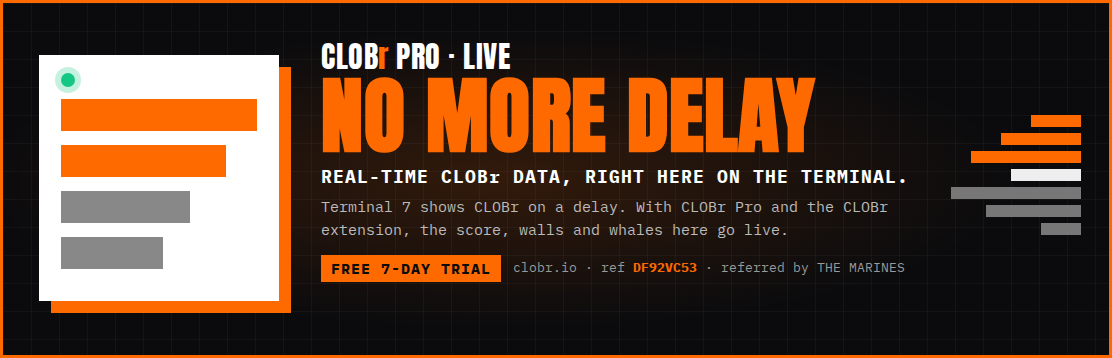
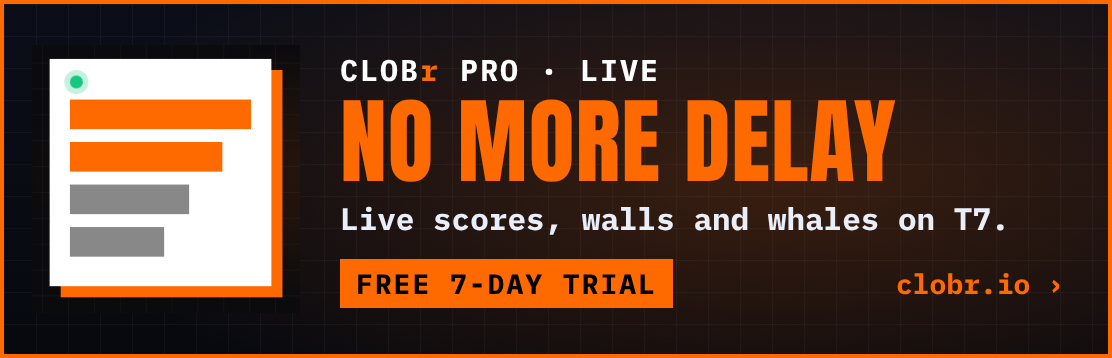
Ads: shown whole (no stretching), tag under the art; ad images redrawn with readable text (owner 10-19). The stream page is untouched. (#364)
Claude-Session: https://claude.ai/code/session_019nRdB8HWDpX2PshFTJDTCF

diff --git a/terminal/token.html b/terminal/token.html
@@ -274,13 +274,13 @@ body.norew .stat.pulse,body.norew .stat.pay{display:none}body.norew .stat.qt{gri
 #ttsPop.show{opacity:1;transform:translate(-50%,0) scale(1)}
 #ttsPop .from{font-size:13px;color:var(--amber);letter-spacing:2px;text-transform:uppercase}
 #ttsPop .msg{font-family:'VT323';font-size:44px;line-height:1.05;color:#fff;margin-top:6px;word-break:break-word}
-.board.house{padding:0;overflow:hidden;background:#000;border:1px solid #2a3a6a}
-.board.house img{position:absolute;inset:0;width:100%;height:100%;object-fit:fill;image-rendering:pixelated}
-.board.house a.sp{position:absolute;inset:0;display:block}
-.board.house a.sp img{position:absolute;inset:0}
-.board.house a.sp .htag{background:#000d;color:var(--green)}
+.board.house{padding:0;overflow:hidden;background:#07090f;border:1px solid #2a3a6a}
+/* house / sponsor art (10-19): shown whole at its own shape (never stretched), the price / sponsor tag in a strip under it (it used to cover the art) */
+.board.house .hw{position:absolute;inset:0;display:flex;flex-direction:column;color:inherit;text-decoration:none}
+.board.house .hw img{position:static;flex:1 1 0;min-height:0;width:100%;height:auto;object-fit:contain}
+.board.house .htag{flex:none;text-align:right;background:#000d;color:var(--amber);font-size:10px;letter-spacing:1px;padding:2px 6px;line-height:1.3}
+.board.house a.sp .htag{color:var(--green)}
 .board.house a.sp:hover .htag{background:var(--green);color:#000}
-.board.house .htag{position:absolute;right:0;bottom:0;z-index:2;background:#000d;color:var(--amber);font-size:10px;letter-spacing:1px;padding:2px 6px;border-top-left-radius:3px}
 .board.house:hover .htag{background:var(--amber);color:#000}
 html.fit .board.house{padding:0}html.fit .board.house .htag{font-size:13px;padding:1px 7px}
 .board.sold.img{padding:0;overflow:hidden;background:#000}
@@ -518,7 +518,7 @@ html.fit #tip{font-size:20px;padding:10px 14px}
   #chartWrap{height:clamp(280px,70vw,380px)}   /* phones 280 px, tablets up to 380 */
   #mbList .br,#mbList .bh{grid-template-columns:16px 22px minmax(0,1fr) repeat(3,minmax(0,64px));gap:6px;font-size:12px}#mbList img{width:22px;height:22px}#mbList .sym .q{display:none}#mbList .bh{font-size:9px;letter-spacing:.5px}
   .post .txt{-webkit-line-clamp:3}
-  .board{min-height:90px}#slot1{aspect-ratio:1112/358;min-height:0}.slots .board.house,.slots .board.img{aspect-ratio:912/176;min-height:0}.bill .board.sold .head,.board.sold .head{font-size:30px}
+  .board{min-height:90px}#slot1{aspect-ratio:1112/358;min-height:0}.slots .board.house,.slots .board.img{aspect-ratio:912/176;min-height:0}.board.house{aspect-ratio:auto!important;min-height:0}.board.house .hw{position:relative;inset:auto}.board.house .hw img{flex:none}.bill .board.sold .head,.board.sold .head{font-size:30px}
   .src .fx{display:none}.src{padding:6px 12px}
   #mbar{display:grid;grid-template-columns:1.45fr .6fr 1.2fr .85fr;gap:6px;position:fixed;left:0;right:0;bottom:0;z-index:45;padding:8px 10px calc(8px + env(safe-area-inset-bottom));background:rgba(4,6,15,.96);border-top:1px solid var(--line);backdrop-filter:blur(6px)}
   #mbar .btn{text-align:center;padding:11px 4px;font-size:12px;letter-spacing:0;text-decoration:none;white-space:nowrap;overflow:hidden;text-overflow:ellipsis}
@@ -1748,11 +1748,13 @@ const SPONSOR={
   '3':[{img:'/terminal/house/s2-clobr-pro.png',href:'https://clobr.io/premium?ref=DF92VC53',tag:'CLOBr PRO · 7 DAYS FREE ▸'}]
 };
 function fillers(k){return [...(HOUSE[k]||[]).map(n=>({house:n})),...(SPONSOR[k]||[])]}
+// letterbox colour per house / sponsor image (its edge), so a box of another shape shows the art whole
+const HBG={"s1-better-call-sergey":"#ff0000","s1-bridge":"#07090f","s1-clobr-pro":"#07090f","s1-clobr":"#07090f","s1-helius":"#07090f","s1-holding-alone":"#ff50e6","s1-jtx":"#07090f","s1-plaid-motors":"#0034be","s1-stonkfun":"#07090f","s2-bridge":"#07090f","s2-clobr-pro":"#07090f","s2-clobr":"#07090f","s2-helius":"#07090f","s2-paper-hands":"#0000c8","s2-stonkfun-community":"#07090f","s2-stonkfun":"#07090f","s2-youre-reading-this":"#07090f","s3-bankers-hate":"#ffffbe","s3-sergey-associates":"#07090f"};
 function houseAd(k,pr){
   const L=fillers(k);if(!L.length)return'';
   const f=L[Math.floor(Date.now()/20000+ +k)%L.length];
-  if(f.house)return `<img src="/terminal/house/${f.house}.png" alt="ad space open"><span class="htag">${PAY?WAS(PAY.was?.slots?.[k],PAY.prices.slots[k])+'$'+PAY.prices.slots[k]+'/'+PAY.blockMinutes+'M · ':''}BUY ▸</span>`;
-  return `<a class="sp" href="${esc(f.href)}" target="_blank" rel="noopener sponsored"><img src="${esc(f.img)}" alt=""><span class="htag">${esc(f.tag)}</span></a>`}
+  if(f.house)return `<div class="hw" style="background:${HBG[f.house]||'#07090f'}"><img src="/terminal/house/${f.house}.png" alt="ad space open"><span class="htag">${PAY?WAS(PAY.was?.slots?.[k],PAY.prices.slots[k])+'$'+PAY.prices.slots[k]+'/'+PAY.blockMinutes+'M · ':''}BUY ▸</span></div>`;
+  return `<a class="sp hw" style="background:${HBG[(f.img.match(/([\w-]+)\.png$/)||[])[1]]||'#07090f'}" href="${esc(f.href)}" target="_blank" rel="noopener sponsored"><img src="${esc(f.img)}" alt=""><span class="htag">${esc(f.tag)}</span></a>`}
 function fillSlotSel(){if(!PAY)return;$('fSlot').innerHTML=['1','2','3'].map(k=>`<option value="${k}">${SLOTN[k]} · $${PAY.prices.slots[k]}/${PAY.blockMinutes}m${PAY.was?.slots?.[k]>PAY.prices.slots[k]?' (was $'+PAY.was.slots[k]+')':''}</option>`).join('');
   $('fBlocks').innerHTML=Array.from({length:PAY.maxBlocks},(_,i)=>`<option value="${i+1}">${(i+1)*PAY.blockMinutes} min</option>`).join('')}
 let imgId=null,imgBusy=false;

diff --git a/terminal/classic.html b/terminal/classic.html
@@ -170,13 +170,13 @@ tr.whale td{background:rgba(74,122,255,.08)}
 #ttsPop.show{opacity:1;transform:translate(-50%,0) scale(1)}
 #ttsPop .from{font-size:13px;color:var(--amber);letter-spacing:2px;text-transform:uppercase}
 #ttsPop .msg{font-family:'VT323';font-size:44px;line-height:1.05;color:#fff;margin-top:6px;word-break:break-word}
-.board.house{padding:0;overflow:hidden;background:#000;border:1px solid #2a3a6a}
-.board.house img{position:absolute;inset:0;width:100%;height:100%;object-fit:fill;image-rendering:pixelated}
-.board.house a.sp{position:absolute;inset:0;display:block}
-.board.house a.sp img{position:absolute;inset:0}
-.board.house a.sp .htag{background:#000d;color:var(--green)}
+.board.house{padding:0;overflow:hidden;background:#07090f;border:1px solid #2a3a6a}
+/* house / sponsor art (10-19): shown whole at its own shape (never stretched), the price / sponsor tag in a strip under it (it used to cover the art) */
+.board.house .hw{position:absolute;inset:0;display:flex;flex-direction:column;color:inherit;text-decoration:none}
+.board.house .hw img{position:static;flex:1 1 0;min-height:0;width:100%;height:auto;object-fit:contain}
+.board.house .htag{flex:none;text-align:right;background:#000d;color:var(--amber);font-size:10px;letter-spacing:1px;padding:2px 6px;line-height:1.3}
+.board.house a.sp .htag{color:var(--green)}
 .board.house a.sp:hover .htag{background:var(--green);color:#000}
-.board.house .htag{position:absolute;right:0;bottom:0;z-index:2;background:#000d;color:var(--amber);font-size:10px;letter-spacing:1px;padding:2px 6px;border-top-left-radius:3px}
 .board.house:hover .htag{background:var(--amber);color:#000}
 html.fit .board.house{padding:0}html.fit .board.house .htag{font-size:13px;padding:1px 7px}
 .board.sold.img{padding:0;overflow:hidden;background:#000}
@@ -346,7 +346,7 @@ html.fit #tip{font-size:20px;padding:10px 14px}
   #chartWrap{height:230px}
   #mbList .br,#mbList .bh{grid-template-columns:16px 22px minmax(0,1fr) repeat(3,minmax(0,64px));gap:6px;font-size:12px}#mbList img{width:22px;height:22px}#mbList .sym .q{display:none}#mbList .bh{font-size:9px;letter-spacing:.5px}
   .post .txt{-webkit-line-clamp:3}
-  .board{min-height:90px}#slot1{aspect-ratio:1112/358;min-height:0}.slots .board.house,.slots .board.img{aspect-ratio:912/176;min-height:0}.bill .board.sold .head,.board.sold .head{font-size:30px}
+  .board{min-height:90px}#slot1{aspect-ratio:1112/358;min-height:0}.slots .board.house,.slots .board.img{aspect-ratio:912/176;min-height:0}.board.house{aspect-ratio:auto!important;min-height:0}.board.house .hw{position:relative;inset:auto}.board.house .hw img{flex:none}.bill .board.sold .head,.board.sold .head{font-size:30px}
   .src .fx{display:none}.src{padding:6px 12px}
   #mbar{display:grid;grid-template-columns:1.3fr 1fr 1fr;gap:6px;position:fixed;left:0;right:0;bottom:0;z-index:45;padding:8px 10px calc(8px + env(safe-area-inset-bottom));background:rgba(4,6,15,.96);border-top:1px solid var(--line);backdrop-filter:blur(6px)}
   #mbar .btn{text-align:center;padding:11px 6px;font-size:12px;text-decoration:none}
@@ -862,11 +862,13 @@ const SPONSOR={
   '3':[{img:'house/s2-clobr.png',href:'https://clobr.io?ref=DF92VC53',tag:'CLOBr · OPEN ▸'}]
 };
 function fillers(k){return [...(HOUSE[k]||[]).map(n=>({house:n})),...(SPONSOR[k]||[])]}
+// letterbox colour per house / sponsor image (its edge), so a box of another shape shows the art whole
+const HBG={"s1-better-call-sergey":"#ff0000","s1-bridge":"#07090f","s1-clobr-pro":"#07090f","s1-clobr":"#07090f","s1-helius":"#07090f","s1-holding-alone":"#ff50e6","s1-jtx":"#07090f","s1-plaid-motors":"#0034be","s1-stonkfun":"#07090f","s2-bridge":"#07090f","s2-clobr-pro":"#07090f","s2-clobr":"#07090f","s2-helius":"#07090f","s2-paper-hands":"#0000c8","s2-stonkfun-community":"#07090f","s2-stonkfun":"#07090f","s2-youre-reading-this":"#07090f","s3-bankers-hate":"#ffffbe","s3-sergey-associates":"#07090f"};
 function houseAd(k,pr){
   const L=fillers(k);if(!L.length)return'';
   const f=L[Math.floor(Date.now()/20000+ +k)%L.length];
-  if(f.house)return `<img src="house/${f.house}.png" alt="ad space open"><span class="htag">${PAY?'$'+PAY.prices.slots[k]+'/'+PAY.blockMinutes+'M · ':''}BUY ▸</span>`;
-  return `<a class="sp" href="${esc(f.href)}" target="_blank" rel="noopener sponsored"><img src="${esc(f.img)}" alt=""><span class="htag">${esc(f.tag)}</span></a>`}
+  if(f.house)return `<div class="hw" style="background:${HBG[f.house]||'#07090f'}"><img src="house/${f.house}.png" alt="ad space open"><span class="htag">${PAY?'$'+PAY.prices.slots[k]+'/'+PAY.blockMinutes+'M · ':''}BUY ▸</span></div>`;
+  return `<a class="sp hw" style="background:${HBG[(f.img.match(/([\w-]+)\.png$/)||[])[1]]||'#07090f'}" href="${esc(f.href)}" target="_blank" rel="noopener sponsored"><img src="${esc(f.img)}" alt=""><span class="htag">${esc(f.tag)}</span></a>`}
 function fillSlotSel(){if(!PAY)return;$('fSlot').innerHTML=['1','2','3'].map(k=>`<option value="${k}">${SLOTN[k]} · $${PAY.prices.slots[k]}/${PAY.blockMinutes}m</option>`).join('');
   $('fBlocks').innerHTML=Array.from({length:PAY.maxBlocks},(_,i)=>`<option value="${i+1}">${(i+1)*PAY.blockMinutes} min</option>`).join('')}
 let imgId=null,imgBusy=false;
